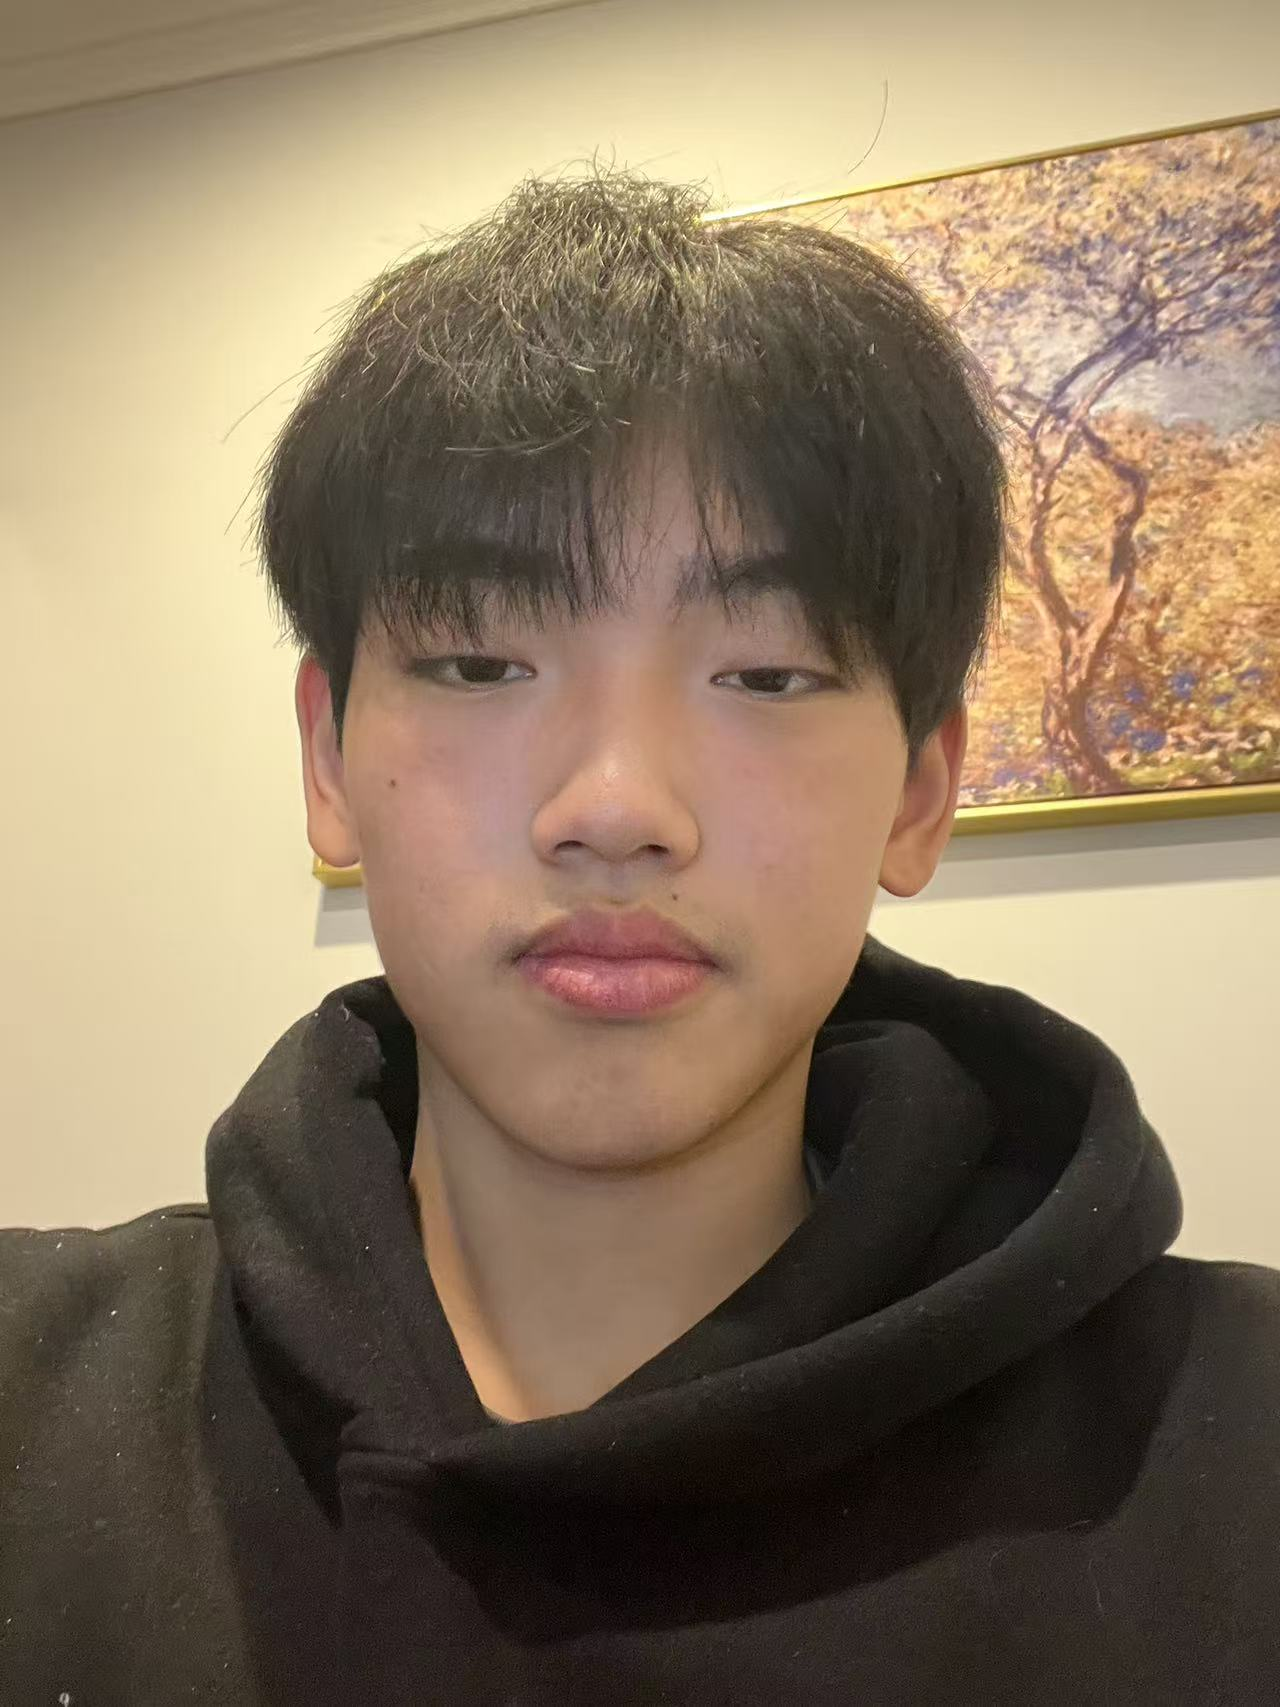
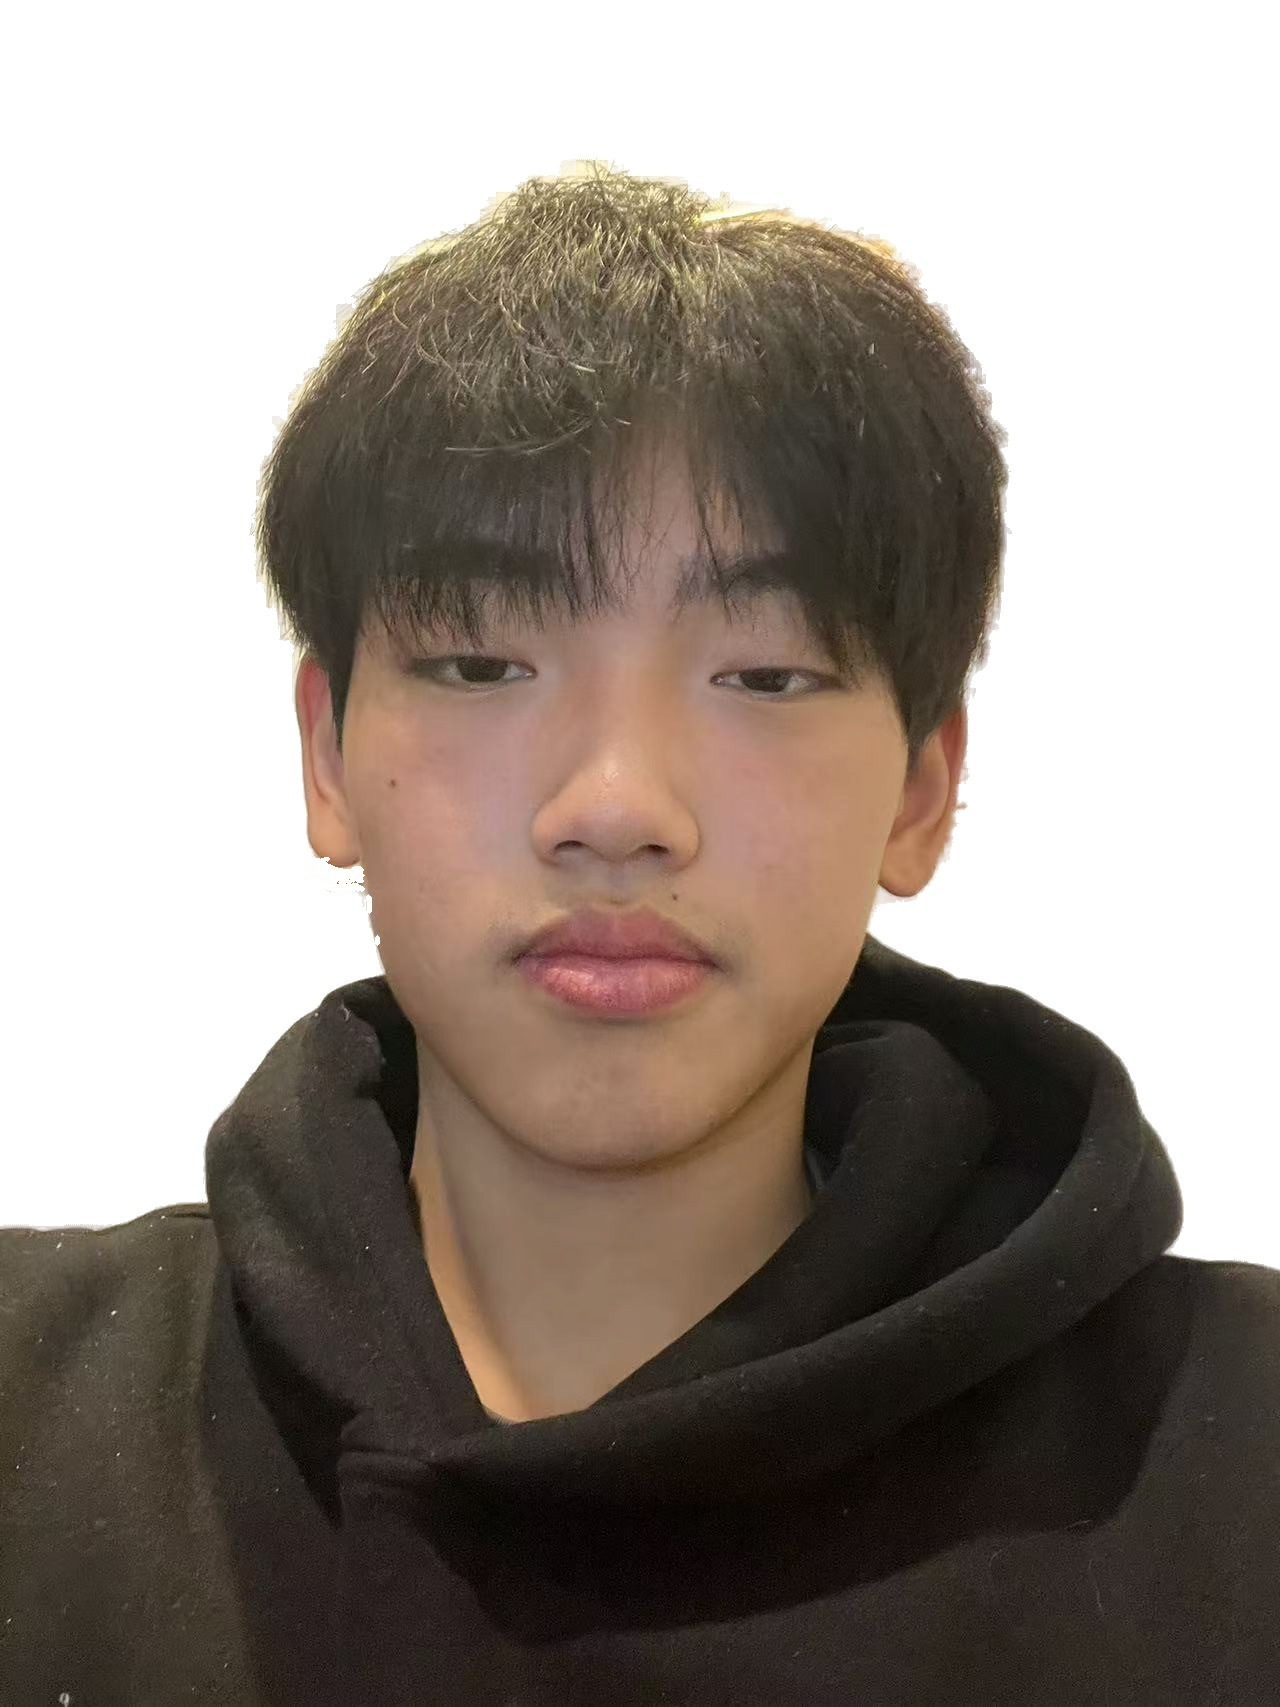
Update team section: Bryan as Co-founder & CFO, white-bg photo, reorder before Weiwei
- Change Bryan Zhou's role from "Marketing & Finance" to "Co-founder & CFO"
- Replace Bryan's photo with a white-background version (removed the painting
  behind him) to match Clement's and Alex's headshots
- Move Bryan's card ahead of Weiwei's in the builders grid

diff --git a/src/pages/AboutPage.jsx b/src/pages/AboutPage.jsx
@@ -63,16 +63,16 @@ const TEAM = [
         lane: 'Engineering',
     },
     {
+        name: 'Bryan Zhou',
+        role: 'Co-founder & CFO',
+        avatar: bryan,
+        lane: 'Growth',
+    },
+    {
         name: 'Weiwei Luo',
         role: 'President & Project Manager',
         avatar: weiwei,
         lane: 'Operations',
-    },
-    {
-        name: 'Bryan Zhou',
-        role: 'Marketing & Finance',
-        avatar: bryan,
-        lane: 'Growth',
     },
 ];
 
